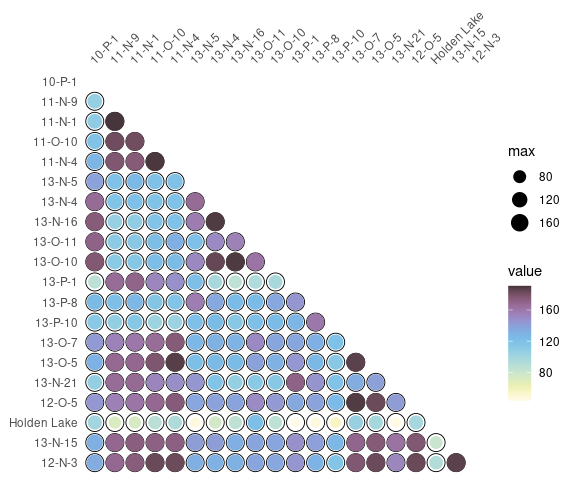
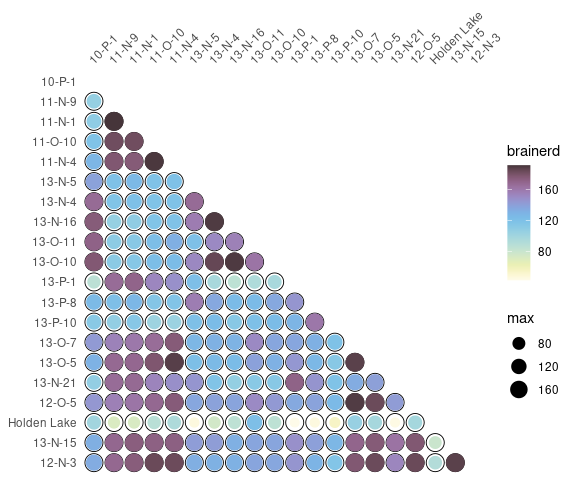
Move to testthat 3e

diff --git a/README.md b/README.md
@@ -16,8 +16,6 @@ status](https://github.com/tesselle/tabula/workflows/R-CMD-check/badge.svg)](htt
 [![Project Status: Active – The project has reached a stable, usable
 state and is being actively
 developed.](https://www.repostatus.org/badges/latest/active.svg)](https://www.repostatus.org/#active)
-[![Lifecycle:
-stable](https://img.shields.io/badge/lifecycle-stable-brightgreen.svg)](https://www.tidyverse.org/lifecycle/#stable)
 
 [![DOI
 Zenodo](https://zenodo.org/badge/DOI/10.5281/zenodo.1489944.svg)](https://doi.org/10.5281/zenodo.1489944)
@@ -100,8 +98,7 @@ scale_01 <- function(x) (x - min(x)) / (max(x) - min(x))
 mississippi %>%
   as_count() %>%
   plot_bertin(threshold = mean, scale = scale_01) +
-  ggplot2::labs(fill = "Mean") +
-  khroma::scale_fill_vibrant()
+  khroma::scale_fill_vibrant(name = "Mean")
 ```
 
 <img src="man/figures/README-bertin-1.png" style="display: block; margin: auto;" />
@@ -238,13 +235,15 @@ mississippi %>%
 ## Data from Conkey 1980, Kintigh 1989, p. 28
 chevelon <- as_count(chevelon)
 
-sim_evenness <- simulate_evenness(chevelon, method = "shannon")
-plot(sim_evenness) +
-  ggplot2::theme_bw()
+sim_heterogeneity <- simulate_heterogeneity(chevelon, method = "shannon")
+plot(sim_heterogeneity) +
+  ggplot2::theme_bw() +
+  ggplot2::theme(legend.position = "bottom")
 
 sim_richness <- simulate_richness(chevelon, method = "none")
 plot(sim_richness) +
-  ggplot2::theme_bw()
+  ggplot2::theme_bw() +
+  ggplot2::theme(legend.position = "bottom")
 ```
 
 ![](man/figures/README-sample-size-1.png)![](man/figures/README-sample-size-2.png)
@@ -264,7 +263,7 @@ mississippi %>%
   as_count() %>%
   similarity(method = "brainerd") %>%
   plot_spot() +
-  khroma::scale_colour_iridescent()
+  khroma::scale_colour_iridescent(name = "brainerd")
 ```
 
 <img src="man/figures/README-similarity-brainerd-1.png" style="display: block; margin: auto;" />
